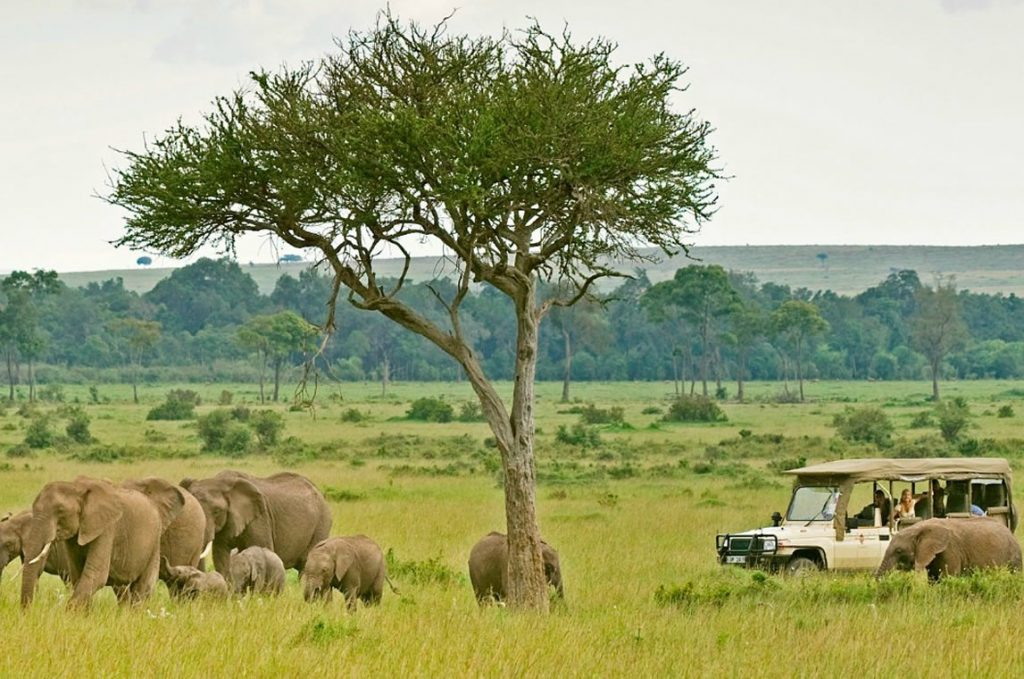
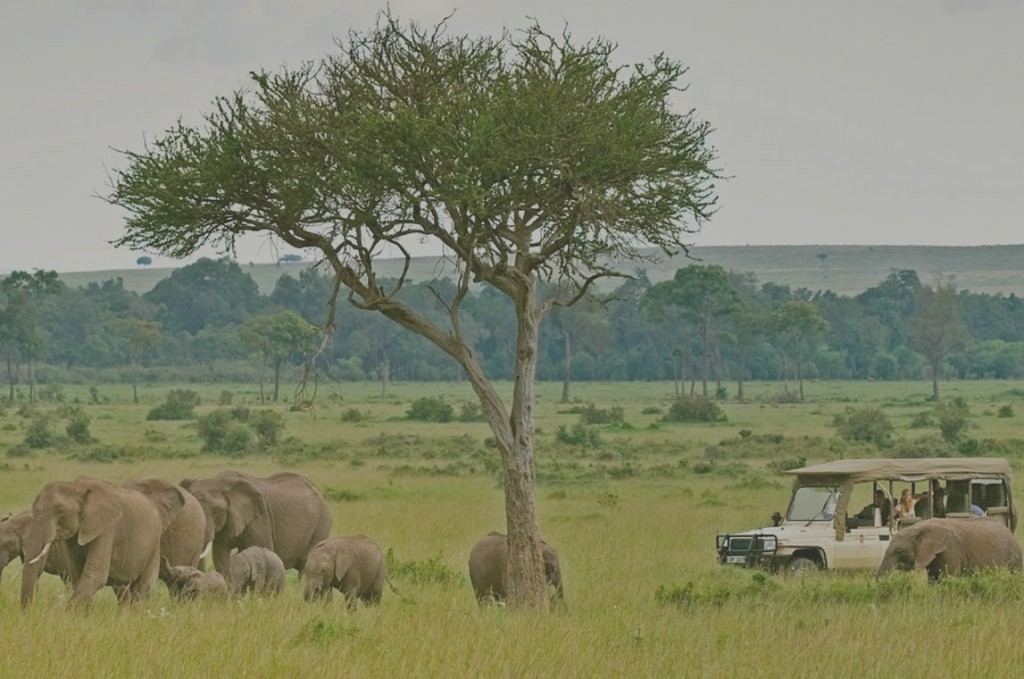
updated the pictures

diff --git a/src/app/components/home/home.component.html b/src/app/components/home/home.component.html
@@ -3,9 +3,13 @@
   <!-- Wrapper for slides -->
   <div class="carousel-inner">
     <div class="item active" id="slide1">
-      <img src="../assets/img/header-bg.jpg" alt="Welcome" />
+      <img
+        src="../../../assets/img/mast-header/fortjesus.jpg"
+        alt="Welcome"
+        class="mast-img"
+      />
       <div class="carousel-caption">
-        <h1 class="masthead-heading text-info text-uppercase">
+        <h1 class="masthead-heading text-uppercase">
           Welcome to TimChist Adventures!
         </h1>
         <h3 class="masthead-subheading">It's Nice To Meet You</h3>
@@ -19,11 +23,13 @@
     </div>
 
     <div class="item">
-      <img src="../assets/img/header-bg.jpg" alt="Our Services" />
+      <img
+        src="../../../assets//img//mast-header/lknakuruflamingos.jpg"
+        alt="Our Services"
+        class="mast-img"
+      />
       <div class="carousel-caption">
-        <h1 class="masthead-heading text-info text-uppercase">
-          Our Services Include
-        </h1>
+        <h1 class="masthead-heading text-uppercase">Our Services Include</h1>
         <h3 class="masthead-subheading">
           Personalized Travel Experiences, Events & Conference Halls,
           Adventures/Safari Tours, Book Flights, Car Hires
@@ -38,11 +44,13 @@
     </div>
 
     <div class="item">
-      <img src="../assets/img/header-bg.jpg" alt="Destination" />
+      <img
+        src="../../../assets/img//mast-header/gediruins.jpg"
+        alt="Destination"
+        class="mast-img"
+      />
       <div class="carousel-caption">
-        <h1 class="masthead-heading text-info text-uppercase">
-          Choose a Destination
-        </h1>
+        <h1 class="masthead-heading text-uppercase">Choose a Destination</h1>
         <h3 class="masthead-subheading">We love the Big Apple!</h3>
         <br />
         <a
@@ -54,9 +62,9 @@
     </div>
 
     <div class="item">
-      <img src="../assets/img/header-bg.jpg" alt="Car Hire" />
+      <img src="../../../assets/img/p4.jpg" alt="Car Hire" class="mast-img" />
       <div class="carousel-caption">
-        <h1 class="masthead-heading text-info text-uppercase">Hire a Car</h1>
+        <h1 class="masthead-heading text-uppercase">Hire a Car</h1>
         <h3 class="masthead-subheading">We love the Big Apple!</h3>
         <br />
         <a class="btn btn-warning btn-xl text-uppercase text-dark" href="#team"
@@ -66,11 +74,13 @@
     </div>
 
     <div class="item">
-      <img src="../assets/img/header-bg.jpg" alt="Accommodations" />
+      <img
+        src="../../../assets//img/mast-header/cetralislandturkana.jpg"
+        alt="Accommodations"
+        class="mast-img"
+      />
       <div class="carousel-caption">
-        <h1 class="masthead-heading text-info text-uppercase">
-          Book Your Accommodation
-        </h1>
+        <h1 class="masthead-heading text-uppercase">Book Your Accommodation</h1>
         <h3 class="masthead-subheading">We love the Big Apple!</h3>
         <br />
         <a

diff --git a/src/styles.css b/src/styles.css
@@ -4262,7 +4262,7 @@ fieldset:disabled .btn {
 }
 .nav-tabs .nav-link.disabled {
   color: #6c757d;
-  background-color: transparent;
+  background-color: rgb(189, 183, 183);
   border-color: transparent;
 }
 .nav-tabs .nav-link.active,
@@ -11753,8 +11753,9 @@ p {
   font-family: "Montserrat", -apple-system, BlinkMacSystemFont, "Segoe UI",
     Roboto, "Helvetica Neue", Arial, sans-serif, "Apple Color Emoji",
     "Segoe UI Emoji", "Segoe UI Symbol", "Noto Color Emoji";
-  font-size: 0.95rem;
-  color: rgb(163, 159, 159);
+  font-size: 1em;
+  font-weight: bolder;
+  color: pink;
   letter-spacing: 0.0625em;
 }
 

diff --git a/src/app/components/services/services.component.html b/src/app/components/services/services.component.html
@@ -1,3 +1,4 @@
+<!-- <div class="container"></div> -->
 <div class="text-center">
   <h2 class="section-heading text-uppercase">{{ attName }} Services</h2>
   <h3 class="section-subheading text-muted">
@@ -5,13 +6,14 @@
   </h3>
 </div>
 
-<div class="row">
+<div class="container">
   <div class="text-center">
     <h6 class="section-heading">All Services</h6>
     <h3 class="section-subheading text-muted">
       Lorem ipsum dolor sit amet consectetur.
     </h3>
   </div>
+
   <div *ngFor="let service of services">
     <div class="col-lg-4 col-sm-6 mb-4">
       <!-- Portfolio items-->

diff --git a/src/app/components/home/home.component.css b/src/app/components/home/home.component.css
@@ -31,3 +31,8 @@
   src: local("sweet-purple"),
     url(../../../assets/fonts/QUIGLEYW.TTF) format("truetype");
 }
+
+.mast-img {
+  width: 1900px;
+  height: 1250px;
+}
